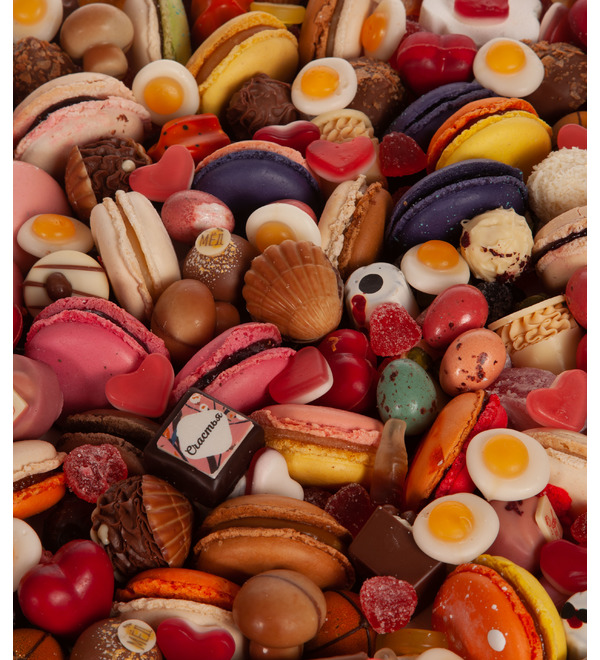
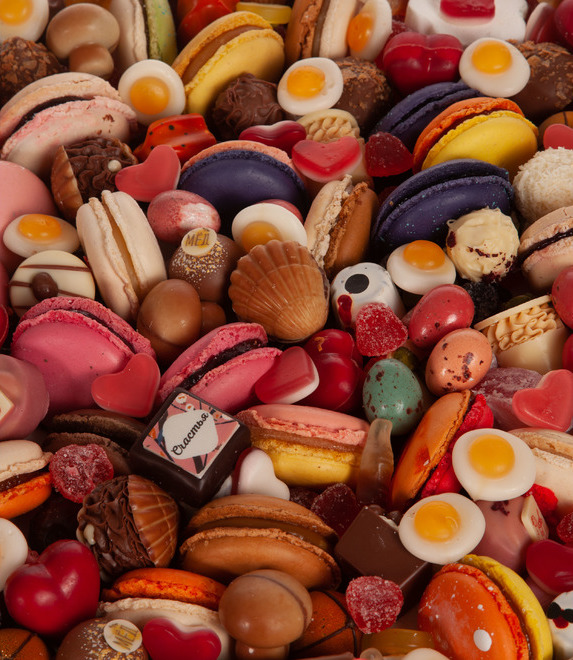
Добавила ещё правки для main.js и подрезала картинки немного от белых рамок по бокам.

diff --git a/src/main.js b/src/main.js
@@ -35,6 +35,9 @@ document.addEventListener("DOMContentLoaded", () => {
 		case "/registration":
 			registrPage(appContainer);
 			break;
+		case "/auth/registration":
+			registrPage(appContainer);
+			break;
 		case "/contacts":
 			renderContacts(appContainer);
 			break;
@@ -43,28 +46,6 @@ document.addEventListener("DOMContentLoaded", () => {
 			break;
 	}
 });
-
-const path = window.location.pathname;
-switch (path) {
-	case "/":
-		renderHome(appContainer);
-		break;
-	case "/basket":
-		renderBasket(appContainer);
-		break;
-	case "/profile":
-		renderProfile(appContainer);
-		break;
-	case "/catalog":
-		renderCatalog(appContainer);
-		break;
-	case "/auth":
-		renderAuthTest(appContainer);
-		break;
-	case "/auth/registration":
-		registrPage(appContainer);
-		break;
-}
 
 document.addEventListener("DOMContentLoaded", () => {
 	const formReg = document.forms.Reg;

diff --git a/src/pages/home/testSalesBlock.js b/src/pages/home/testSalesBlock.js
@@ -20,7 +20,7 @@ function renderTestingSales(data) {
 						<h2 class="middle-title sales__title">Скидки</h2>
 						<h4 class="test-button-Vika"><a href="/card">Карточка товара - кнопка для Вики</a></h4>
 						<div class="sales__inner-wrapper">
-							${salesArray.map((item) => testSalesProductCard(item)).join("")}
+							${salesArray.map((item) => testSalesProductCard(item)).join()}
 						</div>
 					</div>
 				</section>

diff --git a/src/pages/home/homePage.js b/src/pages/home/homePage.js
@@ -19,8 +19,8 @@ export function renderHome(element) {
 	const mainContainer = document.querySelector(".main");
 
 	renderFirstScreen(mainContainer);
+	renderTestSalesBlock();
 	renderSalesBlock(mainContainer);
-	renderTestSalesBlock(mainContainer);
 	renderWhyUs(mainContainer);
 	renderCatalogPreview(mainContainer);
 	renderDelivery(mainContainer);

diff --git a/index.html b/index.html
@@ -9,7 +9,6 @@
 	</head>
 	<body>
 		<div id="app" class="app__wrapper">Hello World!</div>
-
 		<script type="module" src="./src/main.js"></script>
 	</body>
 </html>
